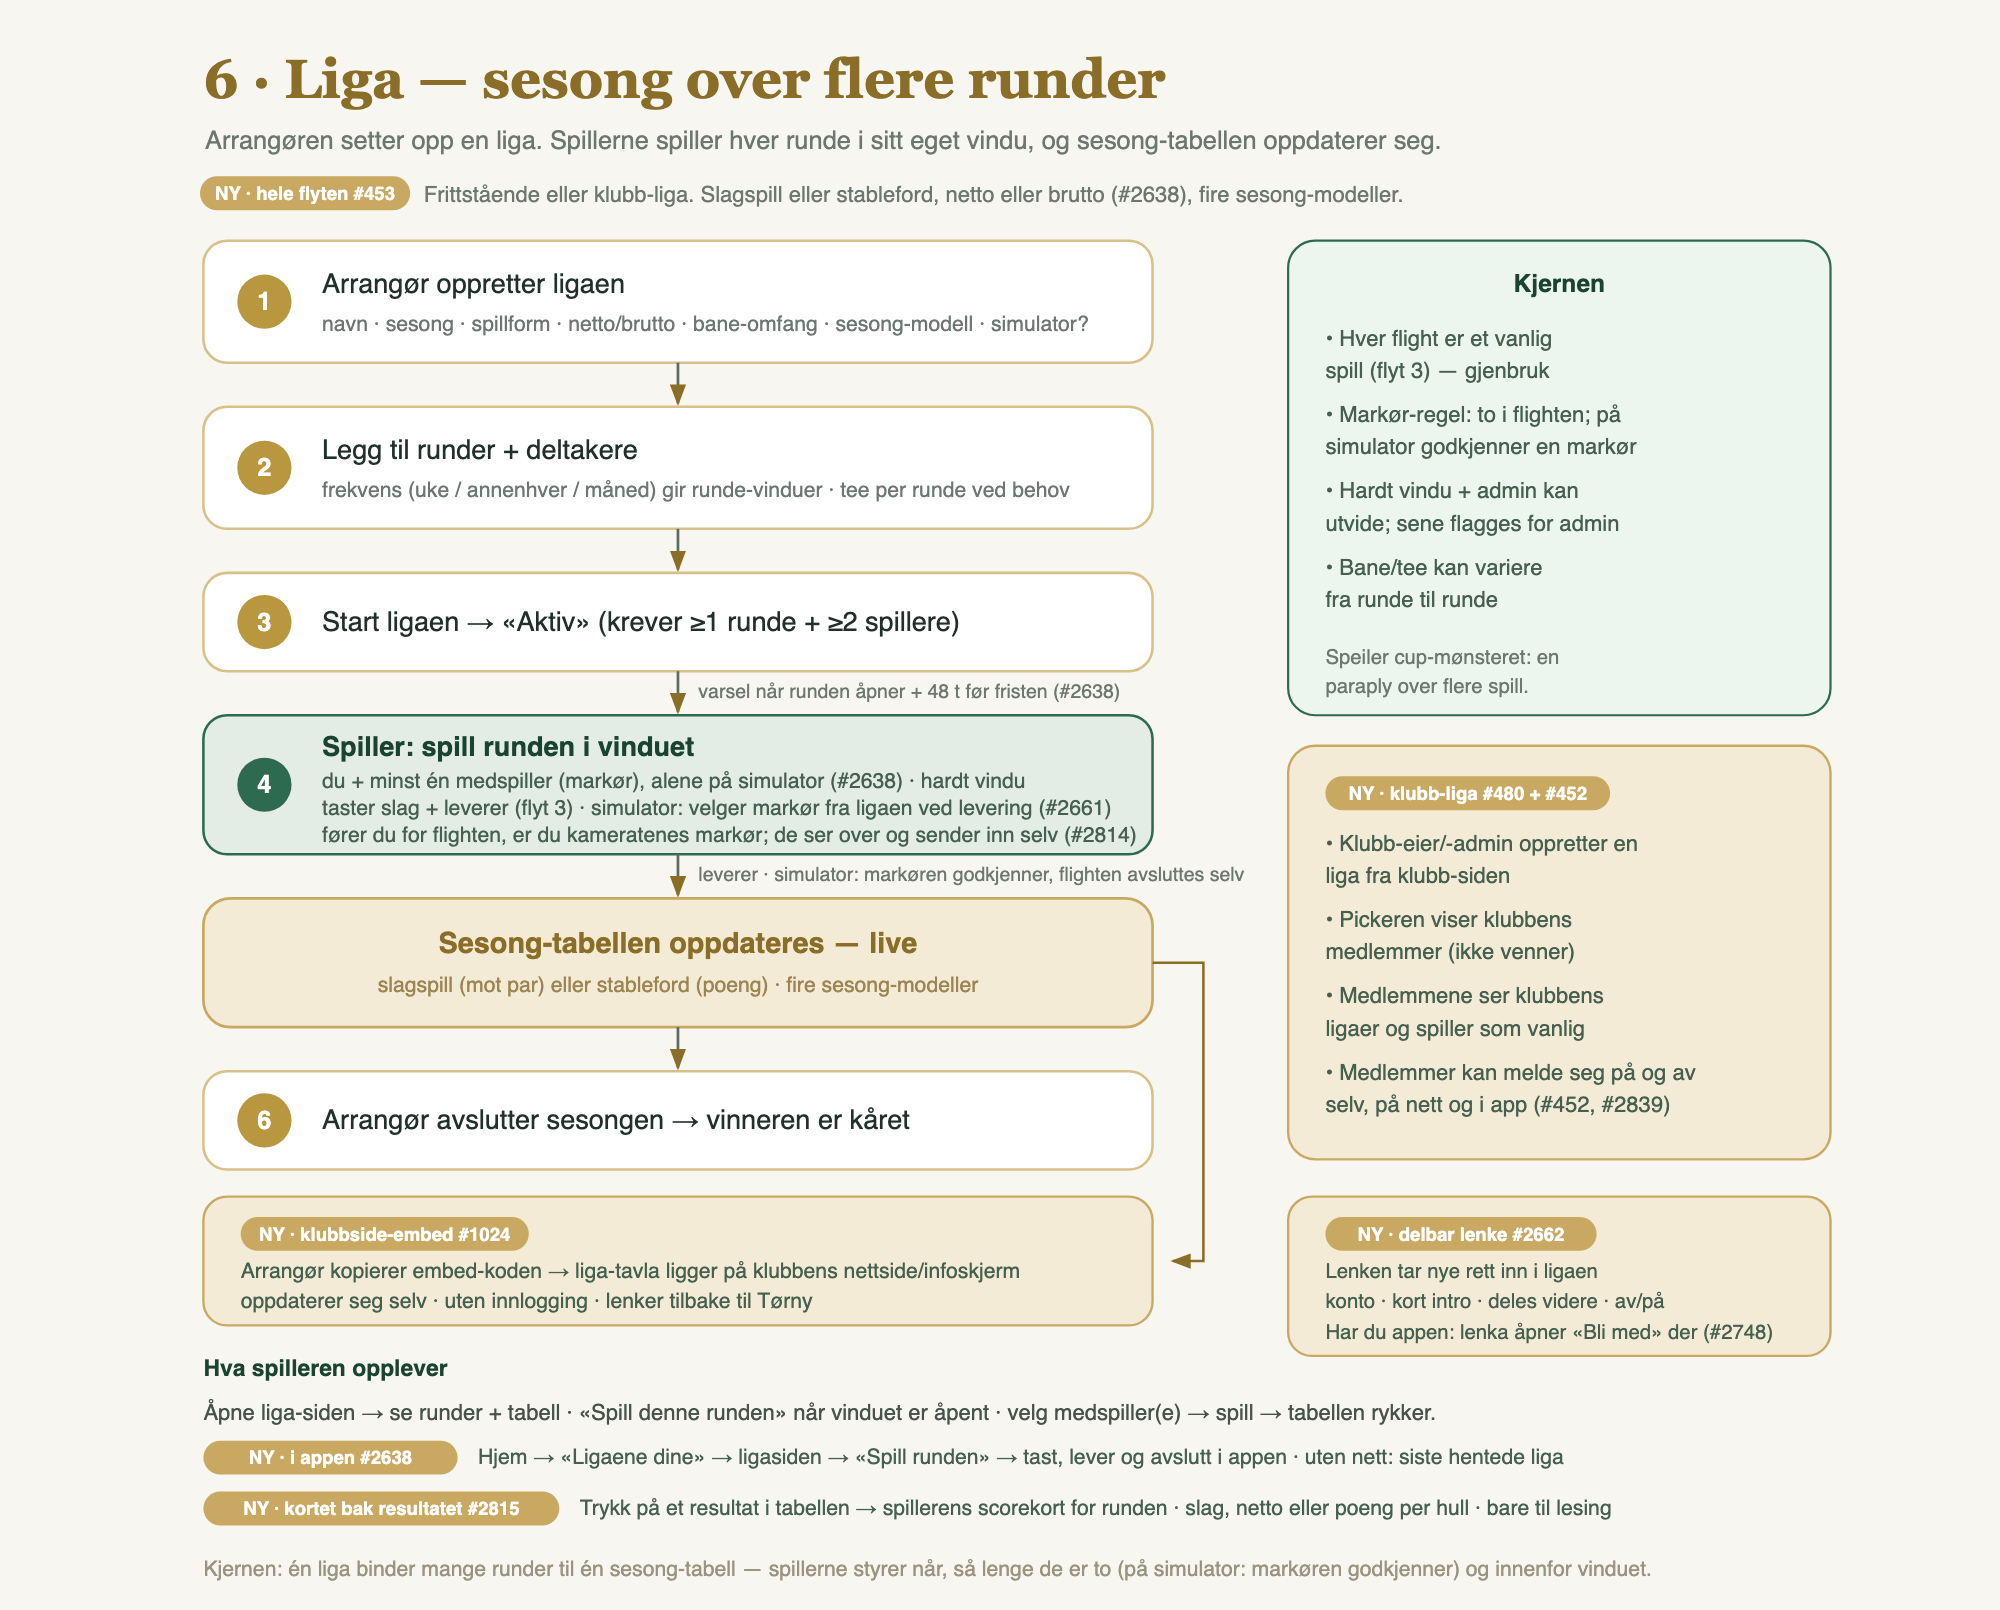
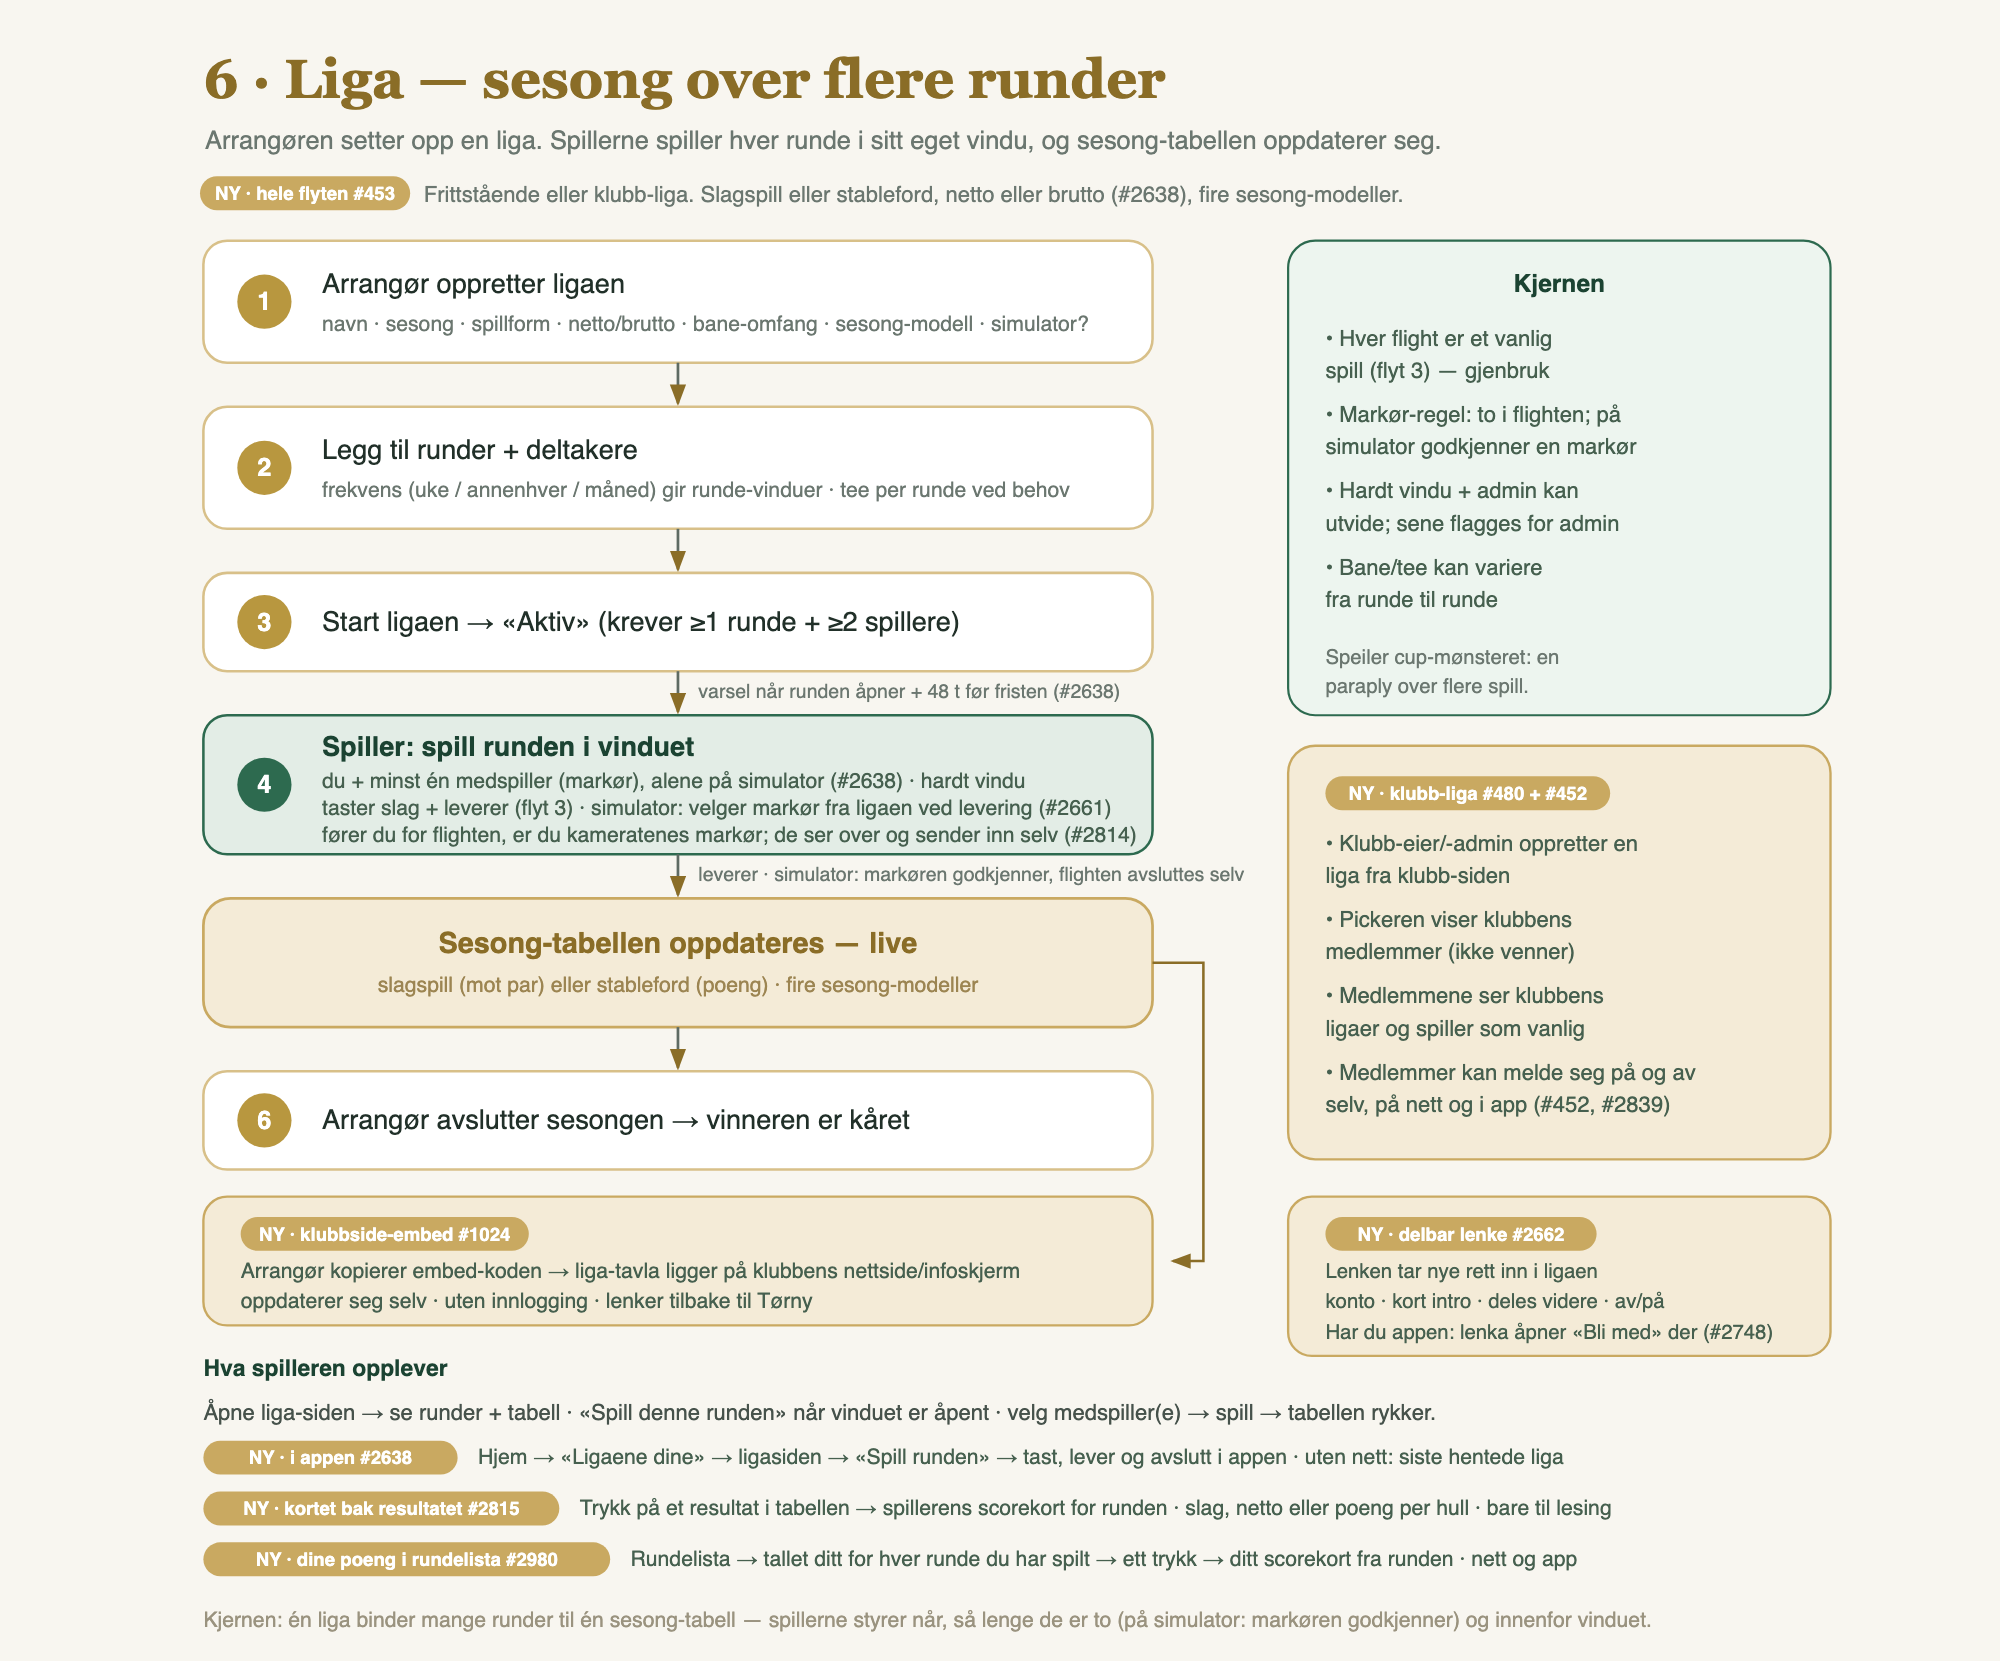
docs(flows): the round list's own number and the tap to your card
Flow 6 gets the step «rundelista → tallet ditt → kortet ditt fra
runden», and user-flows.md the paragraph for it.

Refs #2980

Changed region(s): [[0.093, 0.0311, 0.93, 0.9938]]

diff --git a/docs/user-flows.md b/docs/user-flows.md
@@ -254,6 +254,8 @@ flowchart TD
 
 **Kortet bak et resultat (#2815):** i sesongtabellen på ligasiden er hvert spilt runderesultat en lenke til spillerens kort for runden, `/liga/[id]/kort/[gameId]/[userId]`, og i appen åpner et trykk skjermen `LeagueCard` (via `GET /api/liga/[id]/kort/[gameId]/[userId]`). Kortet er bare til lesing: slag, netto per hull i slagspill eller poeng per hull i stableford, spillehandicapet og resultatet, som er det samme tallet som i cellen. Den som får se ligaen (`canViewLeague`), får se et kort som teller i tabellen (`countingCards`); alle andre får «finnes ikke». Straff og «–» har ikke noe kort, og innbyggingen på klubbens nettside har ingen lenker. Tilbake går til ligaen.
 
+**Dine poeng i rundelista (#2980):** i rundelista på ligasiden står ditt eget tall for hver runde du har spilt, der «Levert» (nettet) eller «Har spilt» (appen) sto: «34 poeng» i en poengliga, slag mot par alene («+3») i slagspill. Tallet er cella fra sesongtabellen på ligaens egen akse (`leagueTable`, `myRoundCell` i `lib/league/standingsFormat.ts`), så ingenting regnes på nytt. Hele raden åpner kortet ditt fra runden, samme kort som cella i tabellen (`/liga/[id]/kort/[gameId]/[userId]`, i appen `LeagueCard`). En runde du ikke har spilt, en straff, en kommende runde og et kort som venter på markøren viser raden som før. Bare ditt eget tall står der; de andres står i tabellen.
+
 **Markøren i simulatorligaen (#2661, #2814):** i en simulatorliga velger du markør fra ligaen når du leverer, og markøren godkjenner kortet før runden teller. Flightkameratene står øverst i lista, så resten av ligaen. Fører du for flighten, er du kameratenes markør, og de ser over og sender inn selv. «Send inn» leverer bare ditt eget kort, og linja over knappen sier «Du er markør for …». Kameraten får varselet «… har ført kortet ditt» under «Krever handling», og påminnelsen går til kameraten, ikke til deg. Hos kameraten står «… er markøren din» i stedet for velgeren. Sender kameraten inn uten å endre noe, er kortet godkjent med en gang. Endrer kameraten noe, står kortet i køen din «Venter på deg som markør». Sender markøren et kort tilbake, går det tilbake til samme markør, også en markør utenfor flighten: spilleren retter og sender inn igjen uten markørliste, og kortet godkjennes aldri automatisk. Er de uenige, kan arrangøren godkjenne i markørens sted. Det endrer #2661, der spilleren valgte markør på nytt. Åpner arrangøren kortet igjen, går det også til samme markør («Kortet går til … når du sender det inn»), og det godkjennes aldri automatisk. At et kort er overlevert, står i `game_players.handed_over_at` (0233): serveren setter det ved overleveringen, og det nulles når et levert kort går tilbake. Regelen bor i `lib/league/leagueMarker.ts`, leveringen i `submitScorecardWithMarker` (nettet og appen).
 
 ### P3 — Spille en runde
